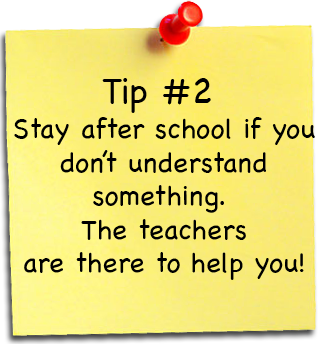
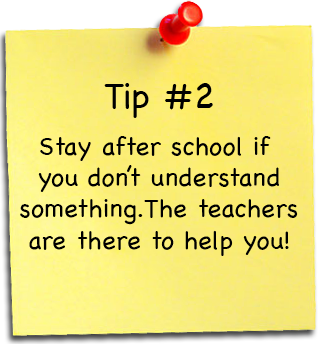
calendar layout and sticky notes2

Changed region(s): [[0.0311, 0.2326, 0.9938, 0.814], [0.0621, 0.6686, 0.2174, 0.814], [0.4969, 0.2035, 0.6832, 0.3198]]

diff --git a/style.css b/style.css
@@ -26,7 +26,7 @@ a.active {background-color: #f3ff6a; width: 53px}
 #mainnav li { display:block; font-family:"Gloria Hallelujah", Helvetica, Verdana, sans-serif; font-size: 125%}
 #mainnav ul {padding: 25px;}
 #mainnav a {display:block; height:30px; line-height:40px; padding: 0 7px; color:#635a4e; }
-#mainnav .current a {background:url(images/) center bottom no-repeat;}
+#mainnav .current a {center bottom no-repeat;}
 #mainnav a:hover {font-weight: bold}
 #mainnav a:active {font-weight: bold}
 a.resume {position:absolute; display:block; background:url(images/resumelink.png) no-repeat; width:215px; height:93px; right:0; bottom:0; text-indent:-4000px; overflow:hidden; z-index:500;}
@@ -50,9 +50,16 @@ h2 {font-family: 'Museo300', Verdana, sans-serif; font-size:2.2em; color:#635a4e
 #pageheader a {color:#fff;}
 #photos {width:150px; float:right; margin-right:20px}
 #homemain {width:490px; float:left; padding-left:30px;}
-#contents p {font-family: "GloriaHallelujah", Helvetica, Verdana, sans-serif; line-height:18px; margin-bottom:0px; margin-left: 10px; padding: 10px; background-color: white; font-size: 12 px;}
-.post {padding:35px 10px 10px 10px; margin-bottom:10px; background-color: #ffffff; background-image: url(images/pushpin.png); background-position: top; background-repeat: no-repeat;}
+#contents p {font-family: "GloriaHallelujah", Helvetica, Verdana, sans-serif; line-height:18px; padding: 10px; background-color: white; font-size: 12px;}
+.post {padding:20px 10px 10px 10px; margin-bottom:10px; background-color: #ffffff; background-image: url(images/pushpin.png); background-position: top; background-repeat: no-repeat;}
 .post header {margin-bottom:15px;}
+.post header .articlemeta {font:normal 1.2em "Helvetica Neue", Helvetica, Verdana, sans-serif; color:#bfb8ac;}
+.post header .articlemeta a {color:#bfb8ac;}
+
+#homemain2 {width:700px; float:left; }
+#contents2 p {font-family: "GloriaHallelujah", Helvetica, Verdana, sans-serif; line-height:18px; padding: 10px; background-color: white; font-size: 15px;}
+.post {padding:20px 10px 10px 10px; margin-bottom:10px; background-color: #ffffff; background-image: url(images/pushpin.png); background-position: top; background-repeat: no-repeat;}
+.post header {margin-bottom:10px;}
 .post header .articlemeta {font:normal 1.2em "Helvetica Neue", Helvetica, Verdana, sans-serif; color:#bfb8ac;}
 .post header .articlemeta a {color:#bfb8ac;}
 
@@ -63,9 +70,12 @@ h2 {font-family: 'Museo300', Verdana, sans-serif; font-size:2.2em; color:#635a4e
 .date {margin-top: 5px; margin-left: 0px; font-family:"Gloria Hallelujah", Helvetica, Verdana, sans-serif; font-size: 120%; color: midnightblue; text-align: left; }
 
 .subhead {font:bold 2.0em 'TeXGyreAdventor', Arial, sans-serif; color: #187211; padding:0 0 8px 0; margin-bottom:10px; background:url(images/subheadbggreen.jpg) left bottom no-repeat;}
-.imagepost {text-align:right; vertical-align: top; width:170px; margin:0 auto 10px auto; padding:20px; display: inline-block}
-.imagepost img {margin-bottom:3px;}
+.imagepost {text-align:right; vertical-align: top; width:200px;  display: inline-block}
+.imagepost img {margin-bottom:3px; margin-left: 20px;}
 .imagepost p {margin-bottom:0!important;}
+.imagepostright {text-align:right; vertical-align: top; width:200px;  display: inline-block}
+.imagepostright img {margin-bottom:3px; margin-left: 40px;}
+.imagepostright p {margin-bottom:0!important;}
 .caption {font-size:1.1em!important; text-align:left!important; font-style:italic; padding-left:5px;}
 #pagefooter {background-image:url(images/bulletin_bottom.png);width: 1000px; height: 51px;}
 #footerwrap {width:950px; margin:auto;}
@@ -101,7 +111,7 @@ h2 {font-family: 'Museo300', Verdana, sans-serif; font-size:2.2em; color:#635a4e
 .entry .avatar {height:45px; margin-bottom:10px;}
 #commentlist .entry {border:solid 1px #d0cbc2; padding:10px; margin-bottom:10px; background:#f8f5f1;}
 .entry .avatar img {float:left;}
-.entry p {font-family: "GloriaHallelujah", Helvetica, Verdana, sans-serif; font-size:11px; line-height:18px; margin-bottom:5px;}
+.entry p {font-family: "GloriaHallelujah", Helvetica, Verdana, sans-serif; font-size:12px; line-height:18px; margin-bottom:5px;}
 .entry .avatar .author {display:block; margin-left:30px;}
 .author span, .author time {display:block;}
 .entry .date {color: purple;}

diff --git a/science.html b/science.html
@@ -39,6 +39,17 @@
         </ul>
 	</nav>
 
+    <section id="contents">
+        <div class="imagepostright">
+            <img src="images/stickynotetip2.png" width="100%">
+        </div>
+    </section>
+    <section id="sidebar">
+        <div class="sb-block">
+
+        </div>
+
+    </section>
 
     
     <section id="sidebar">
@@ -60,24 +71,19 @@
     <h2></h2>
    </header>
   <div class="clear"></div>
-  
-    <section id="contents">
-    <section id="homemain">
+
+    <section id="homemain2">
     <article class="post singlepost">
     <header>
     <h2><a href="#">High School Science</a></h2>
     </header>
     <div class="entry">
     
-    <p>This is the calendar for the Science page. The homework, tests, quizzes, and projects are in the classes indicated by the colors.</p>
-       <ul>
-           <li>Red- Chemistry</li>
-        <li>Green- Physics</li>
-        <li>Blue- Earth Science</li>
-        <li>Yellow- Physical Science</li>
-    </ul>
+    <p>This Calendar is for all of the Science classes. It lists all of your assignments for each day. If you have any further questions about your assignments, contact Mr.DeVries, Mr.Schroeder, or Mrs. Radcliffe.</p>
 
-        <iframe src="https://www.google.com/calendar/embed?src=icablazers.org_hlkacfktrlu3unpa8uccpagb6c%40group.calendar.google.com&ctz=America/Chicago" style="border: 0" width="600" height="400" frameborder="0" scrolling="no"></iframe>
+    </div>
+    </article></section>
+        <iframe src="https://www.google.com/calendar/embed?src=icablazers.org_hlkacfktrlu3unpa8uccpagb6c%40group.calendar.google.com&ctz=America/Chicago" style="border: 0" width="700" height="400" frameborder="0" scrolling="no"></iframe>
 <!--<p>
 Aenean eu lectus in magna imperdiet tincidunt. Vivamus in justo nisi. Morbi id gravida dui. Phasellus sollicitudin, sapien at sollicitudin sodales, massa purus rutrum purus, non fermentum sapien eros eu leo. Integer dignissim luctus massa in varius. Phasellus eget nulla a lectus vestibulum gravida. </p>
 <ul>
@@ -91,22 +97,18 @@ Aenean eu lectus in magna imperdiet tincidunt. Vivamus in justo nisi. Morbi id g
   <li> Aliquam erat volutpat. </li>
 </ul>
     </div>-->
-    </article></section>
-        <iframe src="https://www.google.com/calendar/embed?src=ujlqnvbsfrlpu8uld8am1oqma0%40group.calendar.google.com&ctz=America/Chicago" style="border: 0" width="800" height="600" frameborder="0" scrolling="no"></iframe>
-    
-    
+
+
     <aside id="rightsidebar">
 
     </aside>
     <div class="clear"></div>
-  </section>
+
 </section>
 <div class="clear"></div>
 </div>
 
 <footer id="pagefooter">
-</div>
-</div>
 
 </footer>
 </body>

diff --git a/english.html b/english.html
@@ -33,14 +33,18 @@
             <li class="current"><a href="index.html">Home</a></li>
             <li><a href="tips.html">Tips</a></li>
             <li><a href="calendar.html">Calendar</a></li>
-            <li><a href="math.html">Math</a></li>
+            <li><a href="Math.html">Math</a></li>
             <li><a href="english.html" class="active">English</a></li>
             <li><a href="science.html">Science</a></li>
         </ul>
 	</nav>
 
 
-    
+    <section id="contents">
+        <div class="imagepostright">
+            <img src="images/stickynotetip3.png" width="100%">
+        </div>
+    </section>
     <section id="sidebar">
     <div class="sb-block">
 
@@ -50,44 +54,44 @@
 </section>
 
 <section id="right">
+
 	
     <header id="header-small">
     <h2></h2>
    </header>
-  <div class="clear"></div>
+
+
+ <!-- <div class="clear"></div>-->
   
-    <section id="contents">
-    <section id="homemain">
+
+    <section id="homemain2">
+
+
     <article class="post singlepost">
     <header>
     <h2><a href="#">High School English</a></h2>
     </header>
     <div class="entry">
 
-        <p>This is the calendar for the English page. The homework, tests, quizzes, and projects are in the classes indicated by the colors.</p>
-        <ul>
-            <li>Red- All Classes</li>
-            <li>Green- American Literature</li>
-            <li>Blue- British Literature</li>
-            <li>Yellow- Comp I</li>
-        </ul>
+        <p>This calendar is for all of the English classes. It lists all of your assignments for each day. If you have any further questions about your assignments, contact Mrs.Calaway.</p>
     </div>
 
-    </article></section>
-        <iframe src="https://www.google.com/calendar/embed?src=ntsbqoq2p48koe58gcnf18sqtk%40group.calendar.google.com&ctz=America/Chicago" style="border: 0" width="800" height="600" frameborder="0" scrolling="no"></iframe>
+    </article>
+
+    </section>
+        <iframe src="https://www.google.com/calendar/embed?src=ntsbqoq2p48koe58gcnf18sqtk%40group.calendar.google.com&ctz=America/Chicago" style="border: 0" width="700" height="600" frameborder="0" scrolling="no"></iframe>
 
 
-    <aside id="rightsidebar">
+   <!-- <aside id="rightsidebar">
 
-    </aside>
+    </aside>-->
     <div class="clear"></div>
   </section>
-</section>
 <div class="clear"></div>
 </div>
 
 <footer id="pagefooter">
-</div>
+<div>
 </div>
 
 </footer>

diff --git a/Math.html b/Math.html
@@ -39,6 +39,17 @@
         </ul>
 	</nav>
 
+    <section id="contents">
+        <div class="imagepostright">
+            <img src="images/stickynotetip4.png" width="100%">
+        </div>
+    </section>
+    <section id="sidebar">
+        <div class="sb-block">
+
+        </div>
+
+    </section>
 
     
     <section id="sidebar">
@@ -55,22 +66,16 @@
     <h2></h2>
    </header>
   <div class="clear"></div>
-  
-    <section id="contents">
-    <section id="homemain">
+
+    <section id="homemain2">
     <article class="post singlepost">
     <header>
     <h2><a href="#">High School Math</a></h2>
     </header>
     <div class="entry">
 
-          <p>This is the calendar for the Math page. The homework, tests, quizzes, and projects are in the classes indicated by the colors.</p>
-          <ul>
-              <li>Red- Algebra I</li>
-              <li>Green- Algebra II</li>
-              <li>Blue- AP Calc</li>
-              <li>Yellow- Geometry</li>
-            </ul>
+          <p>This calendar is for all of the Math classes.It lists all of your assignements for each day. If you have any further questions about your assignments, contact Mrs. Armistead, or Mr.DeVries.</p>
+
     </div>
 
     </article></section>
@@ -81,7 +86,7 @@
 
     </aside>
     <div class="clear"></div>
-  </section>
+
 </section>
 <div class="clear"></div>
 </div>
